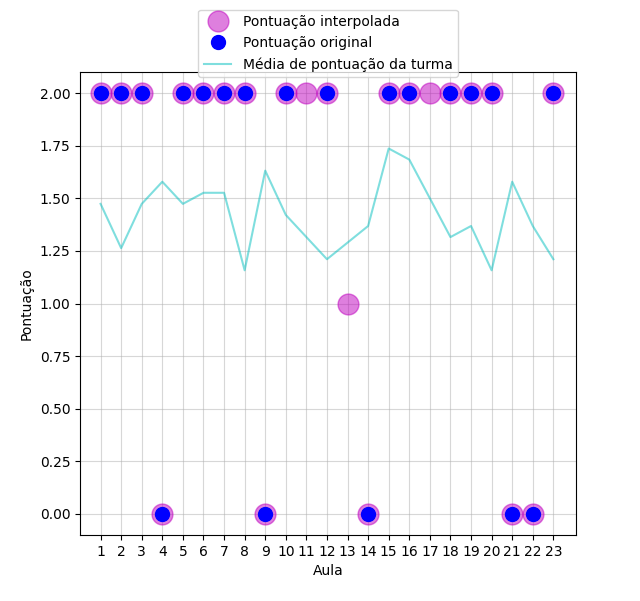
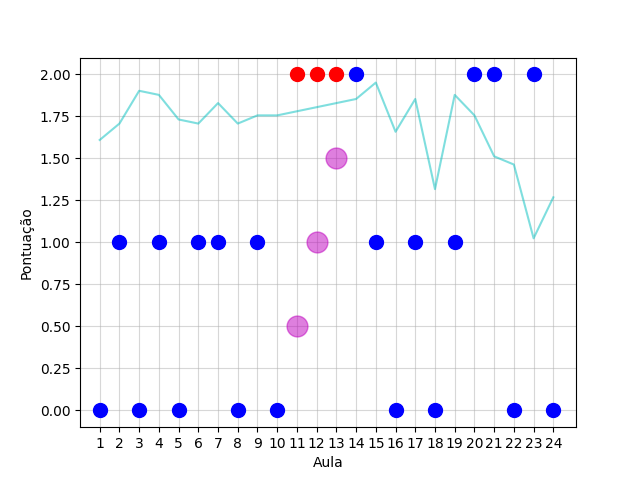
feat: update old method to work with and without interpolation

diff --git a/metodos/3/parse.py b/metodos/3/parse.py
@@ -1,46 +1,95 @@
-import pandas as pd
-import sys
 import re
-from scipy.interpolate import interp1d
+import sys
+
 import numpy as np
+import pandas as pd
 from matplotlib import pyplot as plt
+from scipy.interpolate import interp1d
 
-if len(sys.argv) > 1:
-    report_path = sys.argv[1]
-else:
-    report_path = input("Report path? (ex.: \"report.ods\") ").replace("\"", "")
-        
-report_doc = pd.read_excel(report_path, engine="odf", header=3, index_col=0)
+# if len(sys.argv) > 1:
+#     report_path = sys.argv[1]
+# else:
+#     report_path = input("Report path? (ex.: \"report.ods\") ").replace("\"", "")
 
-dropouts = [
-    'Aluno 1',
-    'Aluno 8',
-    'Aluno 9',
-    'Aluno 10',
-    'Aluno 11',
-    'Aluno 16',
-    'Aluno 20',
-    'Aluno 30',
-    'Aluno 35',
-    'Aluno 40',
+# report_doc = pd.read_excel(report_path, engine="odf", header=3, index_col=0)
+interpolate = True
+classify_dropout_number = 5
+
+# attendance_url = f"https://docs.google.com/spreadsheets/d/1Ol0xuLtDwJw4CndlL__dwKI0cDY3aCvA-ELrBotKn3E/gviz/tq?tqx=out:csv&sheet=presenca" # turma 1
+attendance_url = f"https://docs.google.com/spreadsheets/d/1SAY_0d6xP_SffE5kvjmzYPPDRjAm1iLjmXsZ1n6Uzvo/gviz/tq?tqx=out:csv&sheet=presenca"  # turma 2
+report_doc = pd.read_csv(attendance_url, index_col=0)
+
+hard_to_detect = [
+    # turma 1
+    "Aluno 8",  # hard
+    "Aluno 16",  # hard
+    # turma 2
+    "8",  # hard
+    "21",  # hard
+    "35",  # hard
+    "38",  # hard
+    "72",  # hard
 ]
 
+dropouts = [
+    # turma 1
+    "Aluno 1",
+    "Aluno 9",
+    "Aluno 10",
+    "Aluno 11",
+    "Aluno 20",
+    "Aluno 30",
+    "Aluno 35",
+    "Aluno 40",
+    # turma 2
+    "1",
+    "6",
+    "11",
+    "14",
+    "18",
+    "20",
+    "22",
+    "24",
+    "31",
+    "34",
+    "39",
+    "44",
+    "50",
+    "52",
+    "54",
+    "61",
+    "65",
+    "66",
+    "68",
+    "73",
+    "74",
+    "75",
+    "76",
+    "78",
+    "80",
+    "85",
+    "86",
+]
 
-class Classroom():
-    def __init__(self) -> None:
+dropouts += hard_to_detect
+
+
+class Classroom:  # noqa
+    def __init__(self) -> None:  # noqa
         self._students = {}
         self.weights = []
+        self.interpolate_weights = []
         for index, name in report_doc["Nome"].items():
             self._students[index] = Student(name=name, index=index)
 
 
-class Student():
-    def __init__(self, name: str, index: int) -> None:
+class Student:  # noqa
+    def __init__(self, name: str, index: int) -> None:  # noqa
         self.index = index
         self.name = name
         self.drop_out = False
         # self.drop_out_truth = float(report_doc["Porcentagem"][index].replace(",", ".")) < 75
-        self.drop_out_truth = name in dropouts
+        self.drop_out_truth = str(name) in dropouts
         self.percentage = 0.0
         self.reports = {}
 
@@ -53,7 +102,7 @@ class Student():
         self.no_progression = []
         self.interpolated_progression = []
         self.interpolated_progression_bool = []
-    
+
 
 def initialize_student_dict():
     """Initialize students' dictionary.
@@ -64,14 +113,14 @@ def initialize_student_dict():
 
     for index, name in enumerate(report_doc["Nome"]):
         student_dict[name] = Student(name=name)
-        student_dict[name].drop_out_truth = float(report_doc["Porcentagem"][index].replace(",", ".")) < 75
-    
+        # student_dict[name].drop_out_truth = float(report_doc["Porcentagem"][index].replace(",", ".")) < 75
+
     return student_dict
 
 
 def find_attendence_columns():
     """Find attendence columns in spreadsheet.
-    
+
     :return: list of strings representing attendence columns
     """
     attendence_columns = []
@@ -82,9 +131,8 @@ def find_attendence_columns():
     return attendence_columns
 
 
-def parse_columns(classroom: Classroom):
-    """
-    """
+def parse_columns(classroom: Classroom):  # noqa
+    """"""
     attendence_columns = find_attendence_columns()
     for column in attendence_columns:
         date_string = re.search(r"\d{1,2}\/\d{1,2}\/\d{4}", column).group()
@@ -99,7 +147,7 @@ def parse_columns(classroom: Classroom):
                 if score_report is not None:
                     gen_max_score = float(score_report.group(2))
                     break
-        
+
         for index, report in report_doc[column].items():
             score_report = re.search(r"\((\d+)/(\d+)\)", report)
             if score_report is not None:
@@ -119,15 +167,14 @@ def parse_columns(classroom: Classroom):
 
 
 def compute_score(student: Student):
-    """Compute student's attendence score.
-    """
+    """Compute student's attendence score."""
     for index, date in enumerate(student.reports.keys()):
         student.max_score += student.reports[date]["max_score"]
         student.total_progression += [(index, student.reports[date]["score"])]
-        if student.reports[date]["valid"]:
+        if student.reports[date]["valid"] or index == 0:
             # remove days in which everyone was present
             student.progression += [(index, student.reports[date]["score"])]
-        elif index+1 == len(student.reports):
+        elif index + 1 == len(student.reports):
             # get last valid datapoint if very last datapoint is not valid
             # so that interpolation goes until last datapoint
             # student.no_progression += [(student.reports[date]["date"], student.reports[date]["score"], index)]
@@ -139,15 +186,18 @@ def compute_score(student: Student):
             # student.progression += [(student.reports[date]["date"], student.reports[date]["score"], index)]
             student.no_progression += [(index, student.reports[date]["score"])]
 
+    if not interpolate:
+        student.progression = student.total_progression
+
     student.score = np.sum(student.progression)
 
-def interpolate_score(student: Student):
-    """
-    """
+
+def interpolate_score(student: Student):  # noqa
+    """"""
     x = [i[0] for i in student.progression]
     y = [i[1] for i in student.progression]
 
-    f = interp1d(x,y)
+    f = interp1d(x, y)
 
     xnew = [i for i in range(len(student.reports.keys())) if i <= x[-1]]
     ynew = f(xnew)
@@ -155,30 +205,22 @@ def interpolate_score(student: Student):
     student.interpolated_progression = ynew
     return sum(ynew)
 
-def classify_dropout(student: Student):
-    """
-    """
-    count_drops = 0
-    for datapoint in student.interpolated_progression_bool:
-        if not datapoint:
-            count_drops += 1
-        else:
-            count_drops = 0
-        if count_drops == 5:
-            student.drop_out = True
-            break
 
-
-
-
-def measure_weights(classroom: Classroom):
-    """Calcula os pesos de cada falta baseado na turma inteira
-    """
+def measure_weights(classroom: Classroom, interpolate_weights: bool):
+    """Calcula os pesos de cada falta baseado na turma inteira."""
     weight_array = []
-    for index_date in range(len(classroom._students[1].interpolated_progression)):
+    if interpolate_weights:
+        progression_to_check = classroom._students[1].interpolated_progression
+    else:
+        progression_to_check = classroom._students[1].total_progression
+    for index_date in range(len(progression_to_check)):
+        # for index_date in range(len(n)):
         weight_date = []
         for index, student in classroom._students.items():
-            weight_date += [student.interpolated_progression[index_date]]
+            if interpolate_weights:
+                weight_date += [student.interpolated_progression[index_date]]
+            else:
+                weight_date += [student.total_progression[index_date][1]]
         weight_array += [weight_date]
     weight_array = np.array(weight_array)
     weight_array_new = []
@@ -190,10 +232,10 @@ def measure_weights(classroom: Classroom):
 classroom = Classroom()
 parse_columns(classroom=classroom)
 for index, _ in enumerate(classroom._students):
-    student = classroom._students[index+1]
+    student = classroom._students[index + 1]
     compute_score(student=student)
     student.predicted_score = interpolate_score(student=student)
-    student.percentage = student.predicted_score / student.max_score * 100
+    # student.percentage = student.predicted_score / student.max_score * 100
 
     # print(student.name, student.predicted_score, student.max_score)
     # if student.percentage >= 75:
@@ -201,26 +243,36 @@ for index, _ in enumerate(classroom._students):
     # else:
     #     print("FI")
 
-classroom.weights = measure_weights(classroom=classroom)
-#confusion matrix
+classroom.weights = measure_weights(classroom=classroom, interpolate_weights=False)
+if interpolate:
+    classroom.interpolate_weights = measure_weights(
+        classroom=classroom, interpolate_weights=True
+    )
+# confusion matrix
 confustion_matrix = {
-    "true_positive":  [],
-    "true_negative":  [],
+    "true_positive": [],
+    "true_negative": [],
     "false_positive": [],
     "false_negative": [],
 }
 for _, student in classroom._students.items():
     drop_out_count = 0
-    # for index, datapoint in enumerate(student.interpolated_progression):
-    for index, datapoint in enumerate(student.total_progression):
+    if interpolate:
+        progression_to_analyze = student.interpolated_progression
+    else:
+        progression_to_analyze = student.progression
+    for index, datapoint in enumerate(progression_to_analyze):
         if type(datapoint) == tuple:
             datapoint = datapoint[1]
-        if datapoint < classroom.weights[index]:
+        if datapoint < (
+            classroom.weights[index]
+            if not interpolate
+            else classroom.interpolate_weights[index]
+        ):
             drop_out_count += 1
-        if drop_out_count == 3:
+        if drop_out_count == classify_dropout_number:
             student.drop_out = True
             break
-
     if student.drop_out and student.drop_out_truth:
         # print(student.name)
         confustion_matrix["true_positive"] += [student.name]
@@ -237,31 +289,34 @@ for category in confustion_matrix.keys():
     print(f"{category}: {len(confustion_matrix[category])}")
 
 # for _, student in classroom._students.items():
-#     x = np.array(range(len(student.interpolated_progression))) + 1
-#     x_ = np.array([i[0] for i in student.no_progression])
-#     plt.plot(x_+1, [student.interpolated_progression[i] for i in x_], 'mo', markersize=15, label="Pontuação interpolada", alpha=0.5)
+#     x_not = np.array(range(len(student.total_progression))) + 1
+#     x_interp = np.array(range(len(student.interpolated_progression))) + 1
+#     if interpolate:
+#         x_ = np.array([i[0] for i in student.no_progression])
+#         plt.plot(x_+1, [student.interpolated_progression[i] for i in x_], 'mo', markersize=15, label="Pontuação interpolada", alpha=0.5)
+#         plt.plot(x_+1, [student.total_progression[i][1] for i in x_], "ro", markersize=10, label="Pontuação originale")
+#         plt.plot(x_interp, classroom.interpolate_weights, '-c', markersize=5, label="Média de pontuação da turma interpolada", alpha=0.5)
 #     plt.plot(np.array([i[0] for i in student.progression])+1, [i[1] for i in student.progression], "bo", markersize=10, label="Pontuação original")
-#     plt.plot(x, classroom.weights, '-c', markersize=5, label="Média de pontuação da turma", alpha=0.5)
+#     # plt.plot(x_not, classroom.weights, '-c', markersize=5, label="Média de pontuação da turma", alpha=0.5)
 
-#     plt.gca().set_xticks(x)
+#     plt.gca().set_xticks(x_not)
 
 #     plt.grid(which='both')
 #     plt.grid(which='minor', alpha=0.2)
 #     plt.grid(which='major', alpha=0.5)
 #     # plt.legend(loc='upper center', bbox_to_anchor=(0.5, 1.15))
-#     plt.legend()
+#     # plt.legend()
 #     plt.ylabel(ylabel="Pontuação")
 #     plt.xlim([0,plt.gca().get_xlim()[1]])
 #     plt.xlabel(xlabel="Aula")
 #     plt.show()
-#     # for index, datapoint in enumerate(student.interpolated_progression):
-#     #     if datapoint < classroom.weights[index]:
-#     #         student.interpolated_progression_bool += [False]
-#     #     else:
-#     #         student.interpolated_progression_bool += [True]
 
-    
+# for index, datapoint in enumerate(student.interpolated_progression):
+#     if datapoint < classroom.weights[index]:
+#         student.interpolated_progression_bool += [False]
+#     else:
+#         student.interpolated_progression_bool += [True]
+
 
 # # for index, _ in enumerate(classroom._students):
 # #     print(f"{classroom._students[index+1].score / classroom._students[index+1].max_score * 100}")
-
